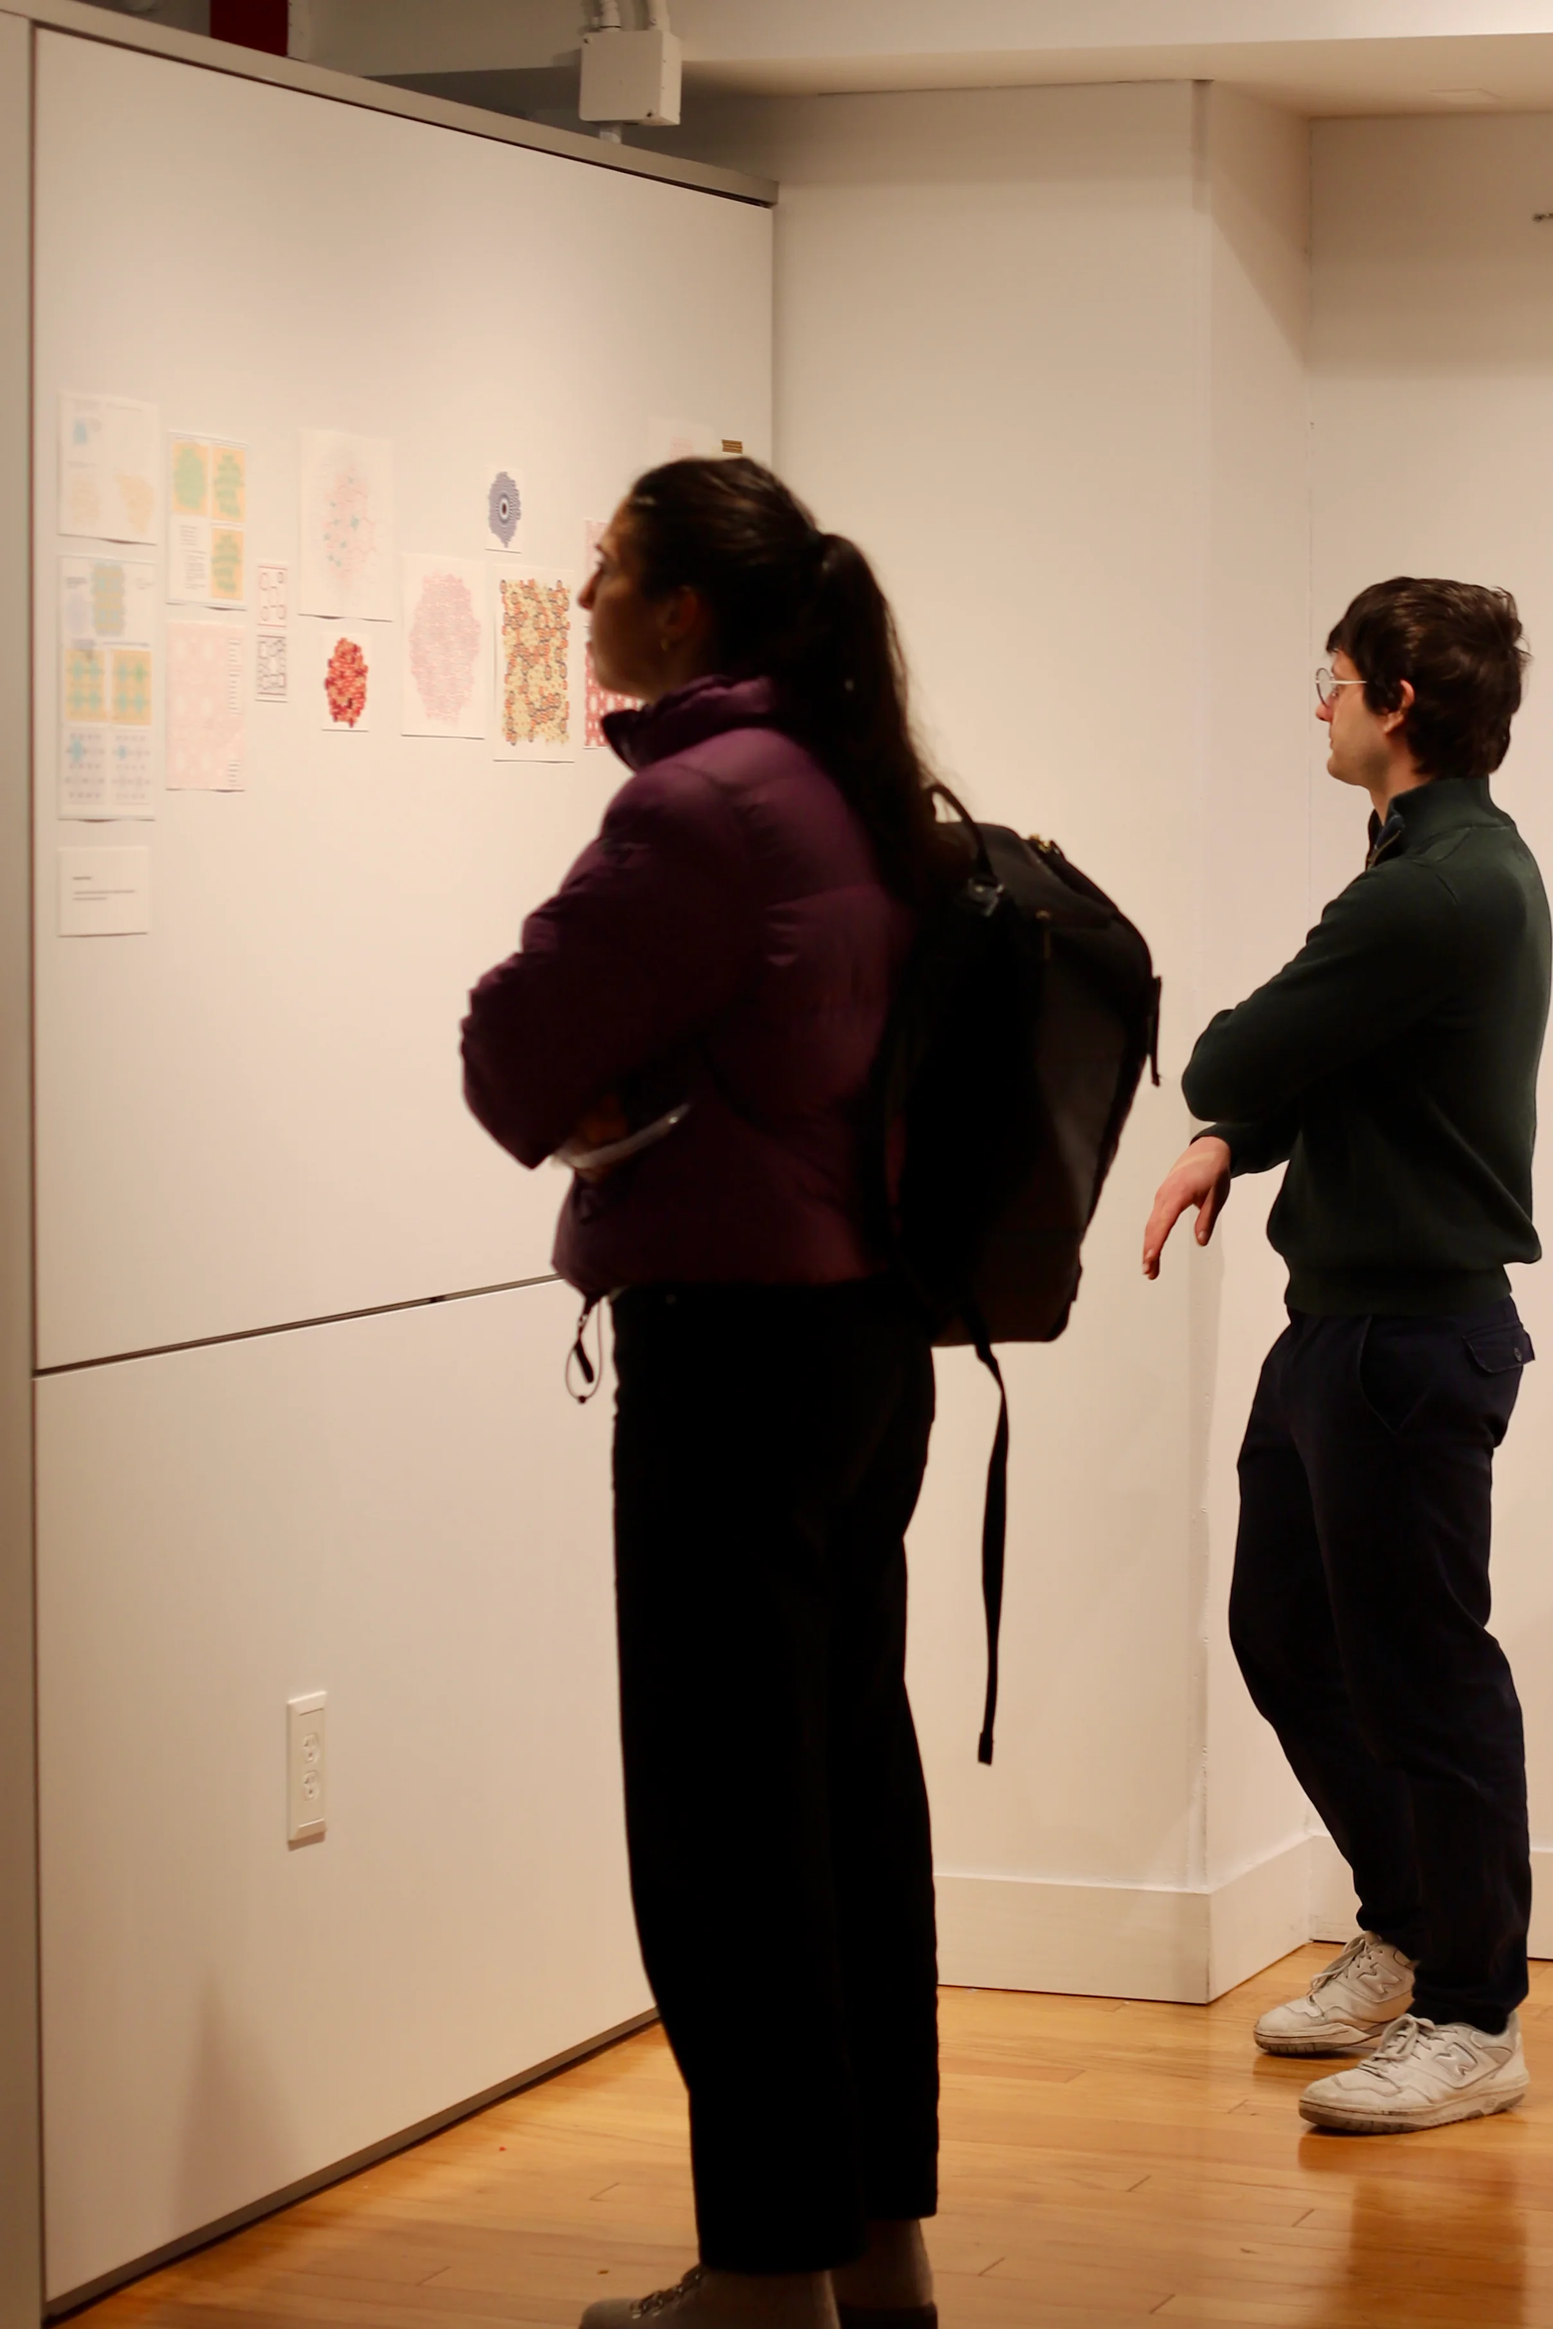
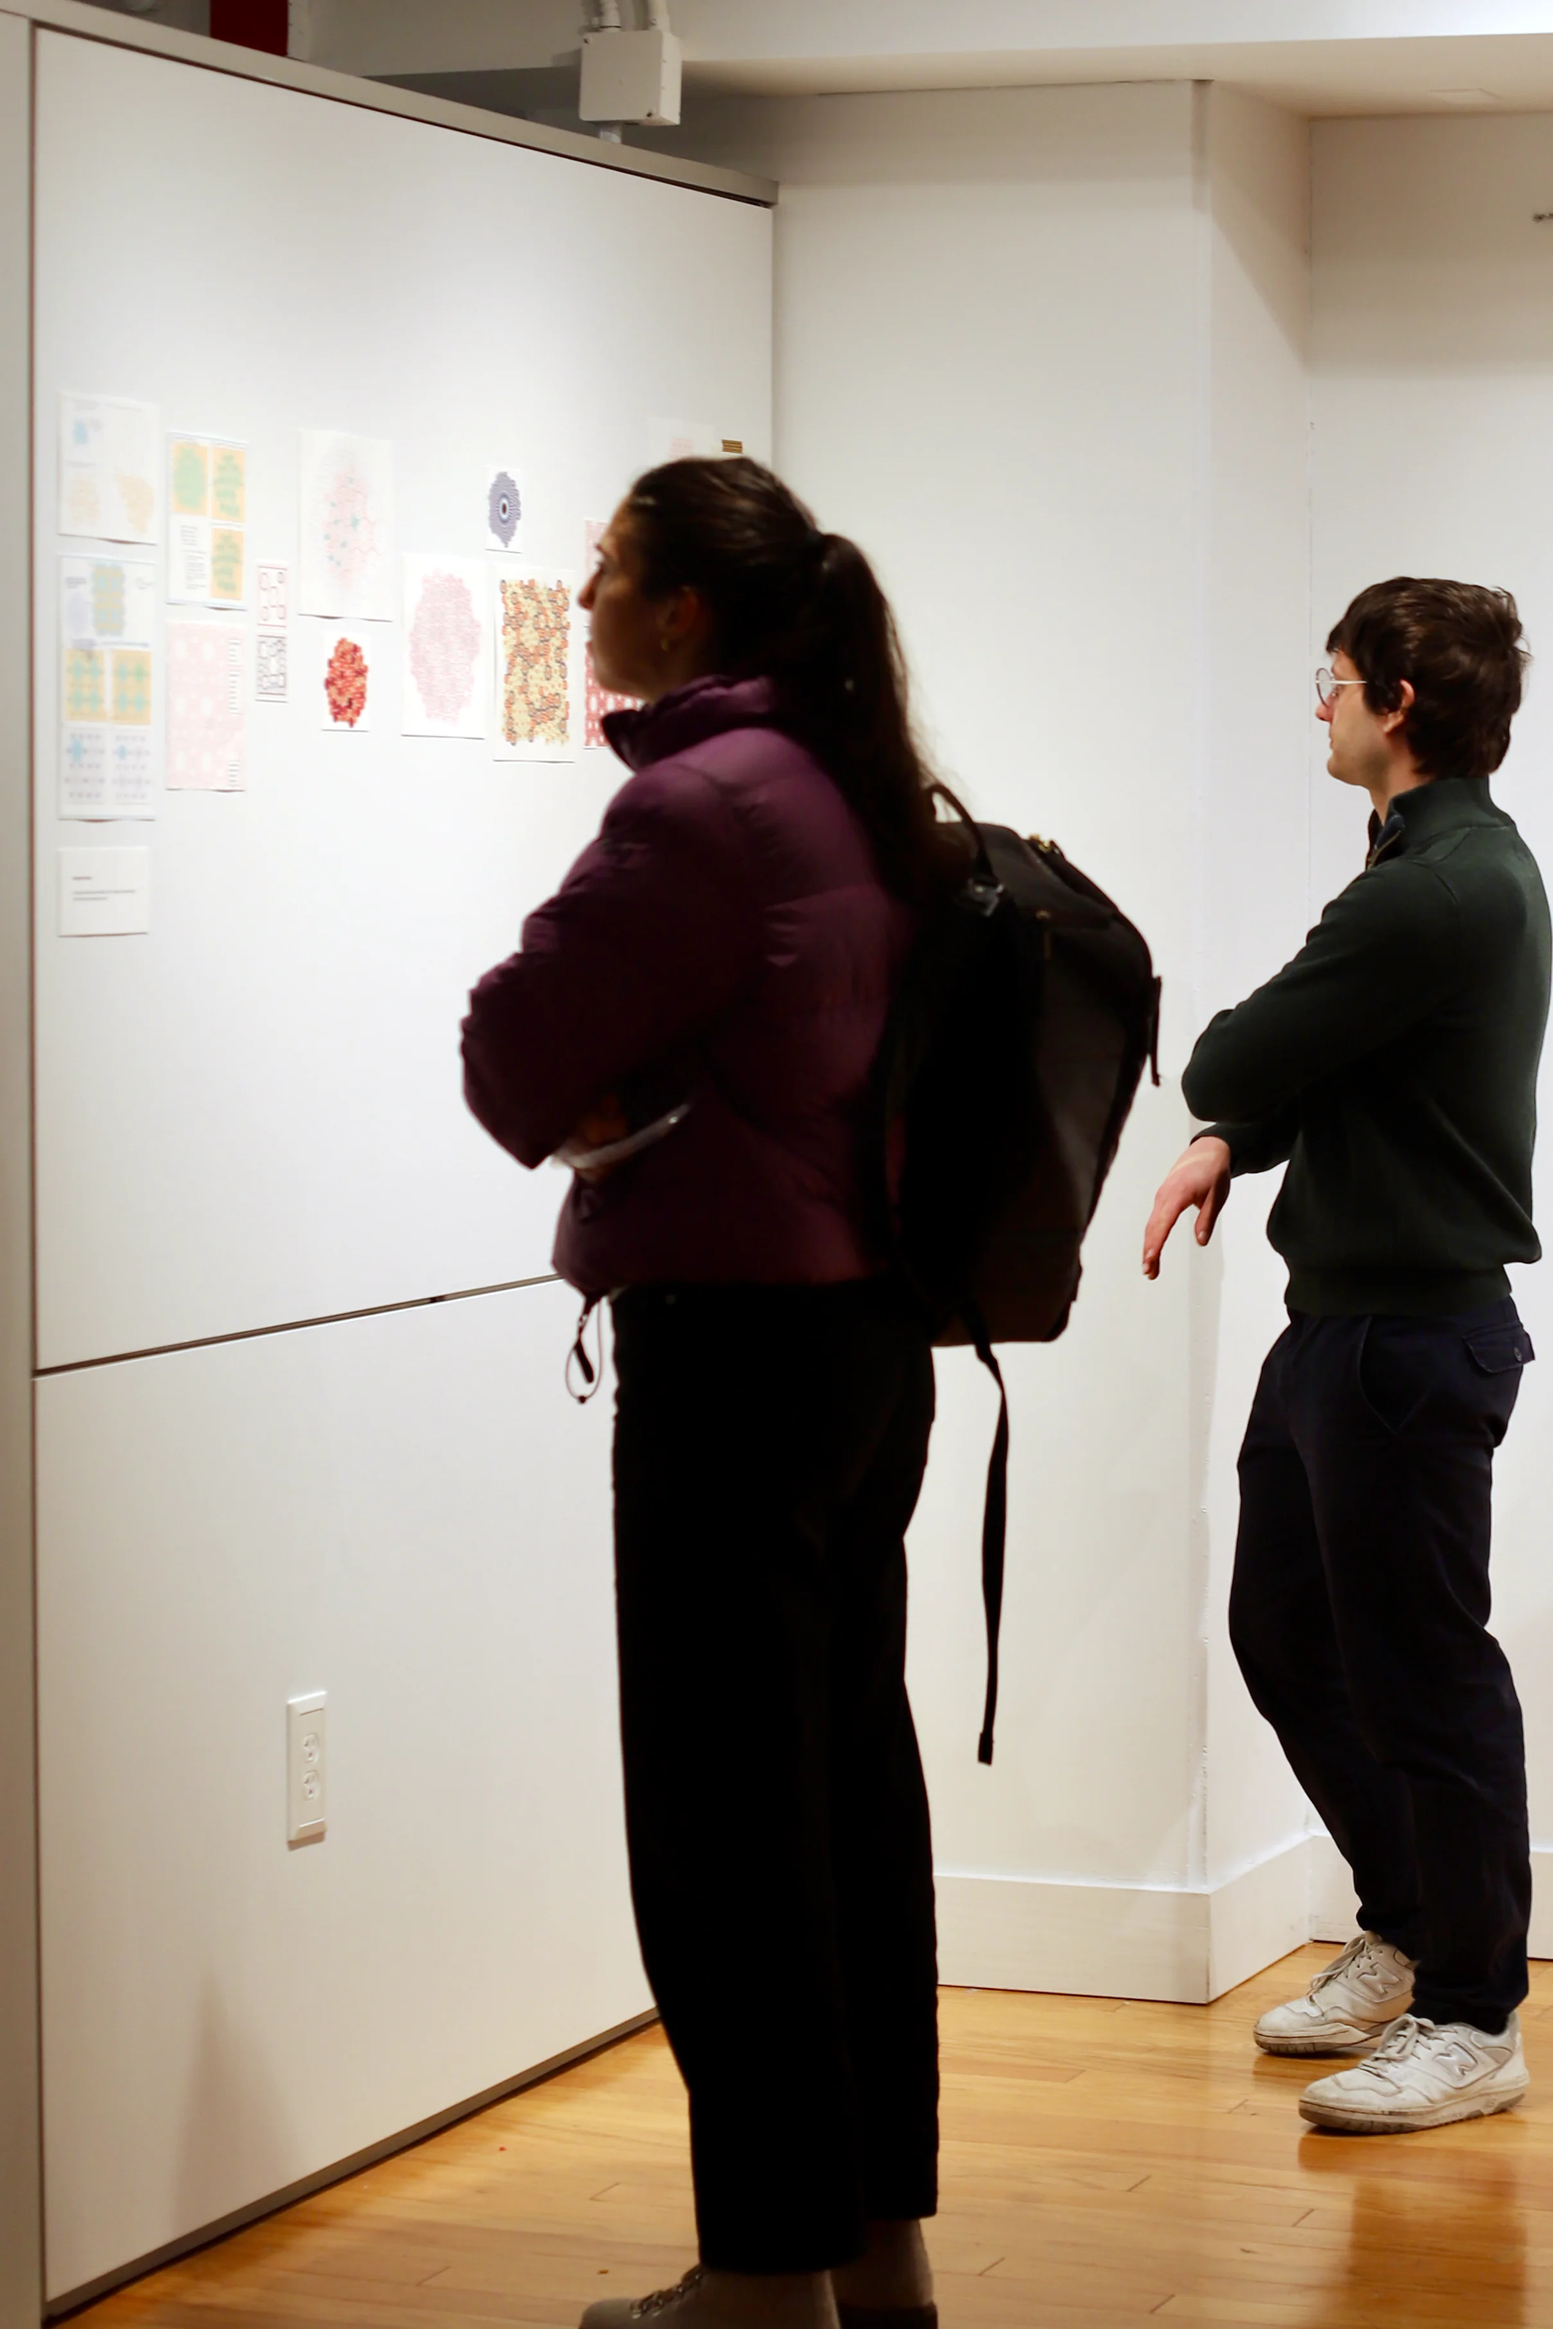
Update assets and migrate MP4 files out of LFS for GitHub Pages

diff --git a/index.html b/index.html
@@ -511,6 +511,10 @@
               <source srcset="assets/experiments.webp" type="image/webp">
               <img src="assets/experiments.PNG" alt="Laser Engraving Experiments">
             </picture>
+            <video autoplay loop muted playsinline preload="auto">
+              <source src="assets/laser-2.mp4" type="video/mp4">
+              Your browser does not support the video tag.
+            </video>
           </div>
           <div class="artwork__info">
             <h3 class="artwork__title">Laser Engraving Experiments</h3>
@@ -520,12 +524,6 @@
             </div>
             <div class="artwork__wall-text">
               <p>A series of tests using different laser cuttings to understand how their parameters interact with printmaking paper.</p>
-            </div>
-            <div class="artwork__media">
-              <video autoplay loop muted playsinline preload="auto">
-                <source src="assets/laser-2.mp4" type="video/mp4">
-                Your browser does not support the video tag.
-              </video>
             </div>
           </div>
         </article>
